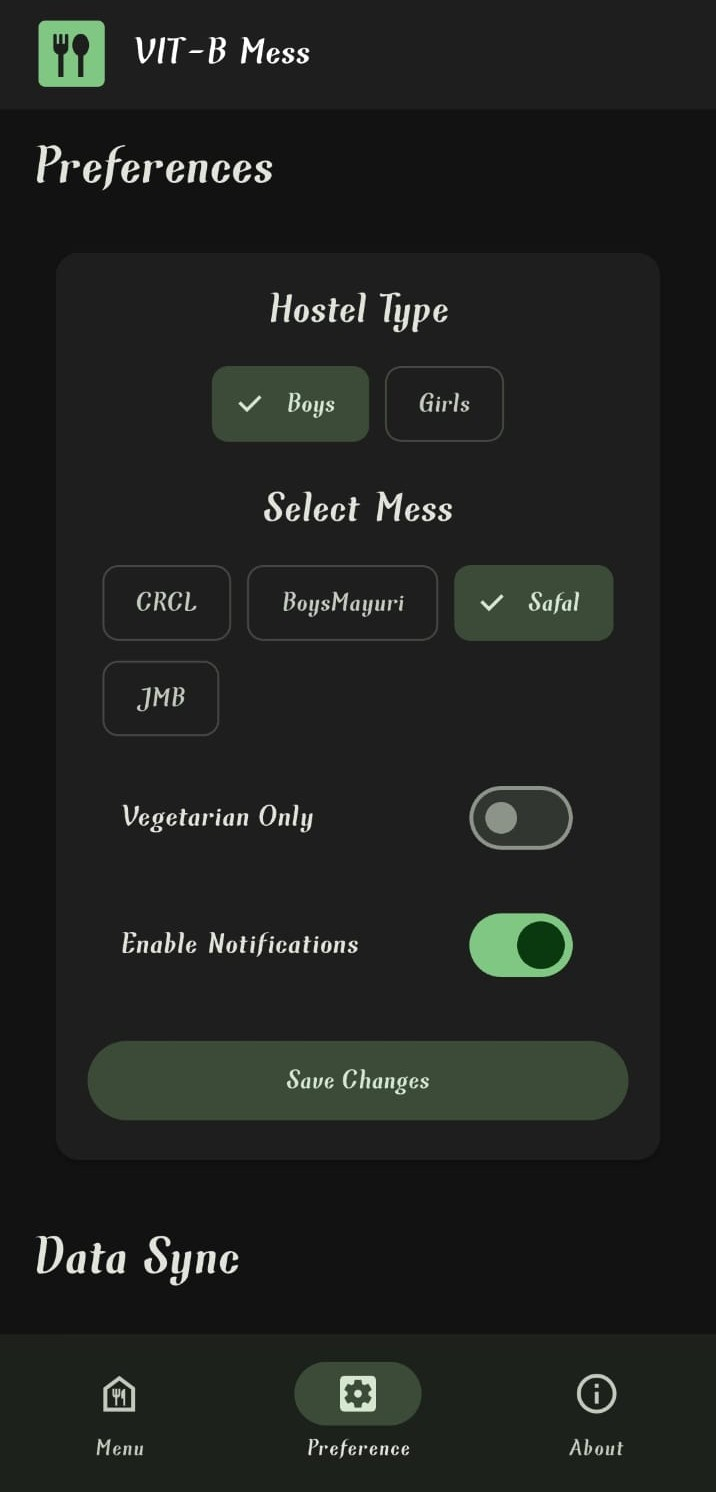
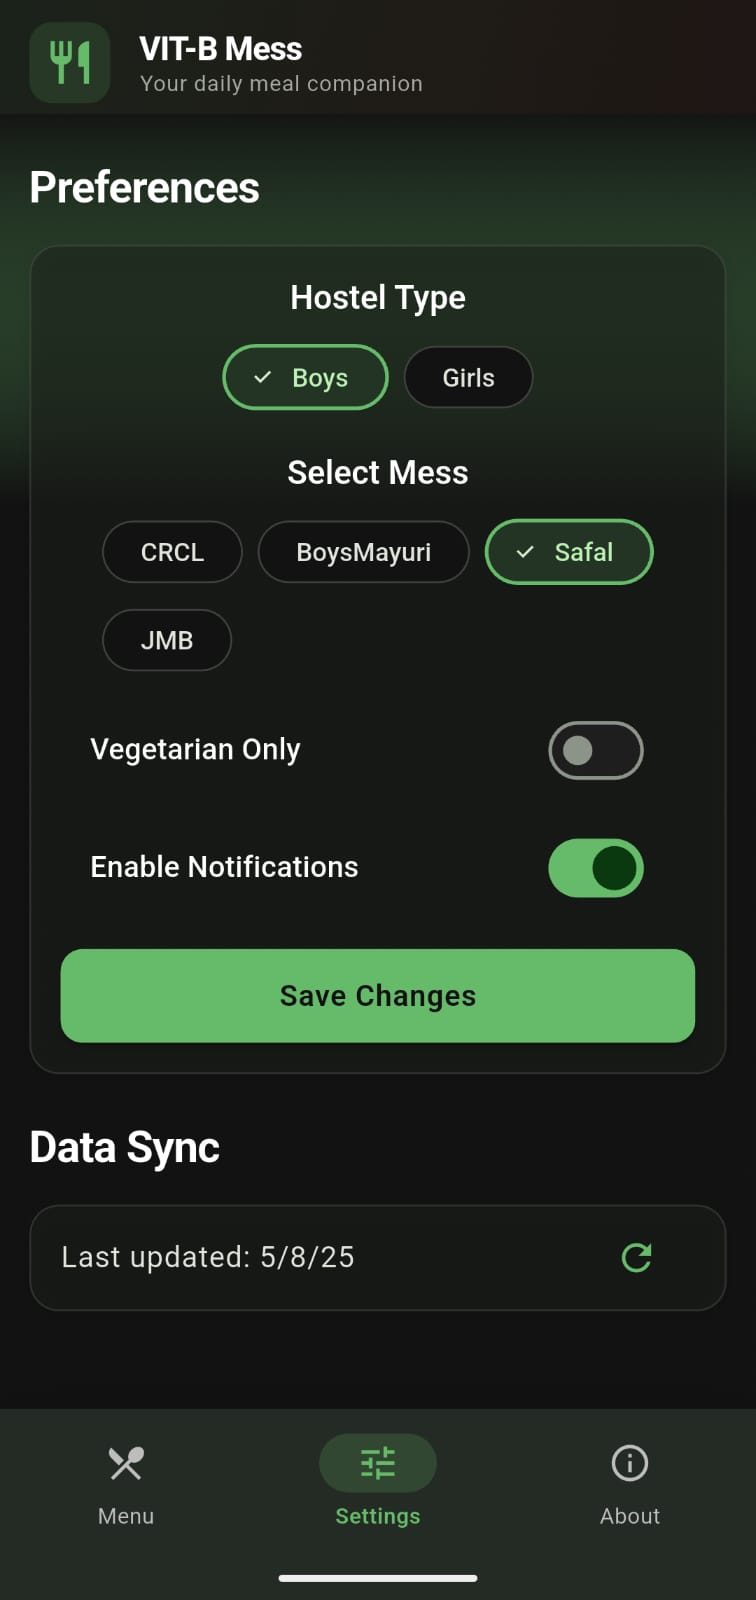
readme updates

diff --git a/README.md b/README.md
@@ -36,7 +36,7 @@ The app schedules notifications 30 minutes before:
 
 | 📋 Home | 🍽 Meal Details | 🔔 Notification |
 |--------|-----------------|-----------------|
-| ![Home Screen](UI/home_screen.jpg) | ![Meal Detail](UI/meal_detail_screen.jpg) | ![Notification](UI/notification_screen.jpg) |
+| ![Preference Screen](UI/home_screen.jpg) | ![Meal Detail](UI/meal_detail_screen.jpg) | ![Notification](UI/notification_screen.jpg) |
 ---
 
 ## 🔧 Tech Stack
